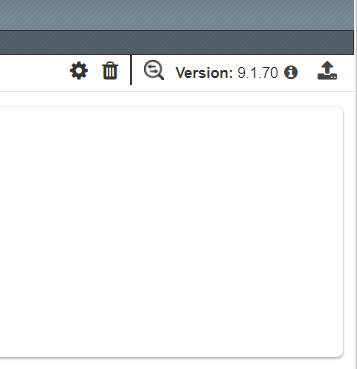
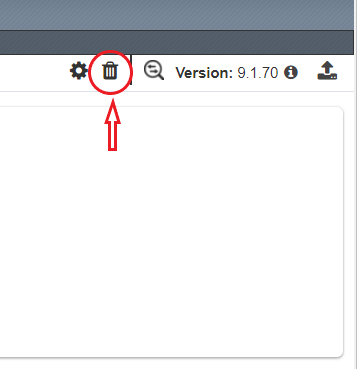
updates1

Changed region(s): [[0.2465, 0.1491, 0.3697, 0.4173], [0.2773, 0.1192, 0.3389, 0.1491]]

diff --git a/docs/class1/module1/lab04.rst b/docs/class1/module1/lab04.rst
@@ -91,7 +91,7 @@ observe the decrypted clear text traffic.
    topologies. This process is accomplished by selecting the **SSLO Orchestrator**
    menu, clicking on **Configuration**, and in the top right corner of the
    SSLO Guided Configuration UI clicking on the cleanup icon depicted
-   as **trashcan** icon which will cleanup all SSLO object.
+   as a **trashcan** icon which will cleanup all SSLO object.
 
    **Note - the sslo cleanup process may take several minutes to complete**
 

diff --git a/docs/class1/module1/lab06.rst b/docs/class1/module1/lab06.rst
@@ -63,7 +63,7 @@ Creating an SWG per-request policy
    the **Create** button.
 
 -  **Name** enter a unique name
--  **Policy Type** select **All**
+-  **Policy Type** select **SSL Orchestrator**
 -  **Incomplete Action** select **All**
 -  **Customization Type** select the appropriate language(s)
 
